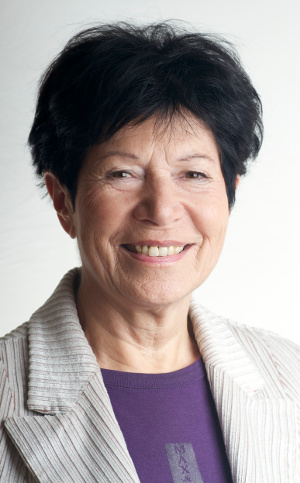
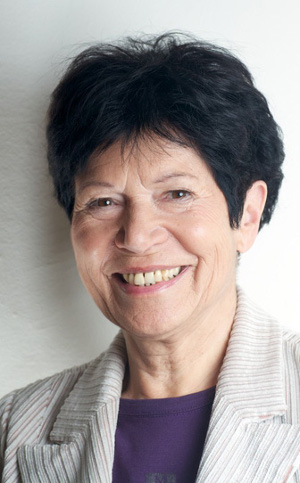
Update Austria profile pics and contact email

diff --git a/austria/templates/austria/contact-us.html b/austria/templates/austria/contact-us.html
@@ -9,7 +9,14 @@
 
 {% block contact_local %}
 <h2>{% trans "Contact Genom Austria" %}</h3>
-<p>{% trans "Contact address for all questions:" %} <a href="mailto:info@genomaustria.at">info@genomaustria.at</a></p>
+<p>{% trans "Contact address for all questions:" %}
+{% get_current_language as LANGUAGE_CODE %}
+  {% if LANGUAGE_CODE == "de" %}
+    <a href="mailto:info@genomaustria.at">info@genomaustria.at</a>
+  {% else %}
+    <a href="mailto:contact@genomaustria.at">contact@genomaustria.at</a>
+  {% endif %}
+</p>
 {% endblock contact_local %}
 
 {% block footer %}
